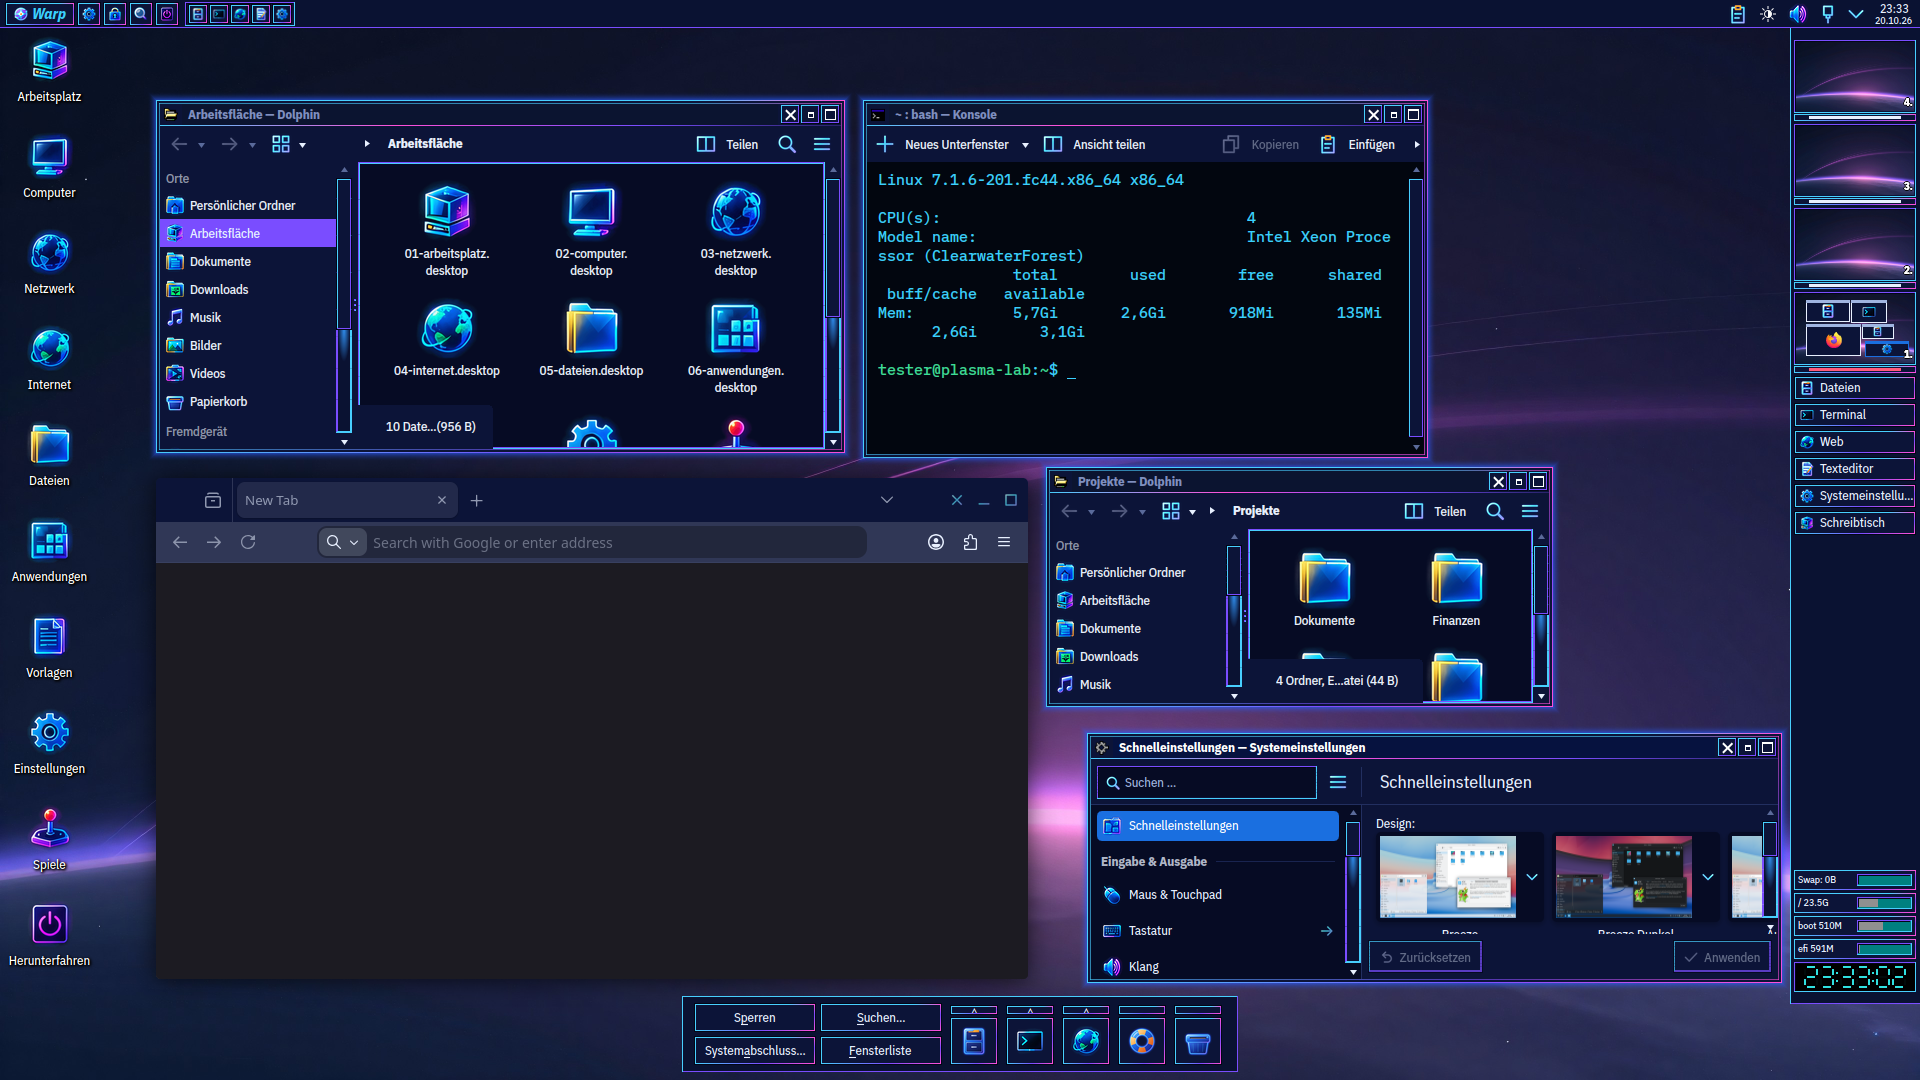
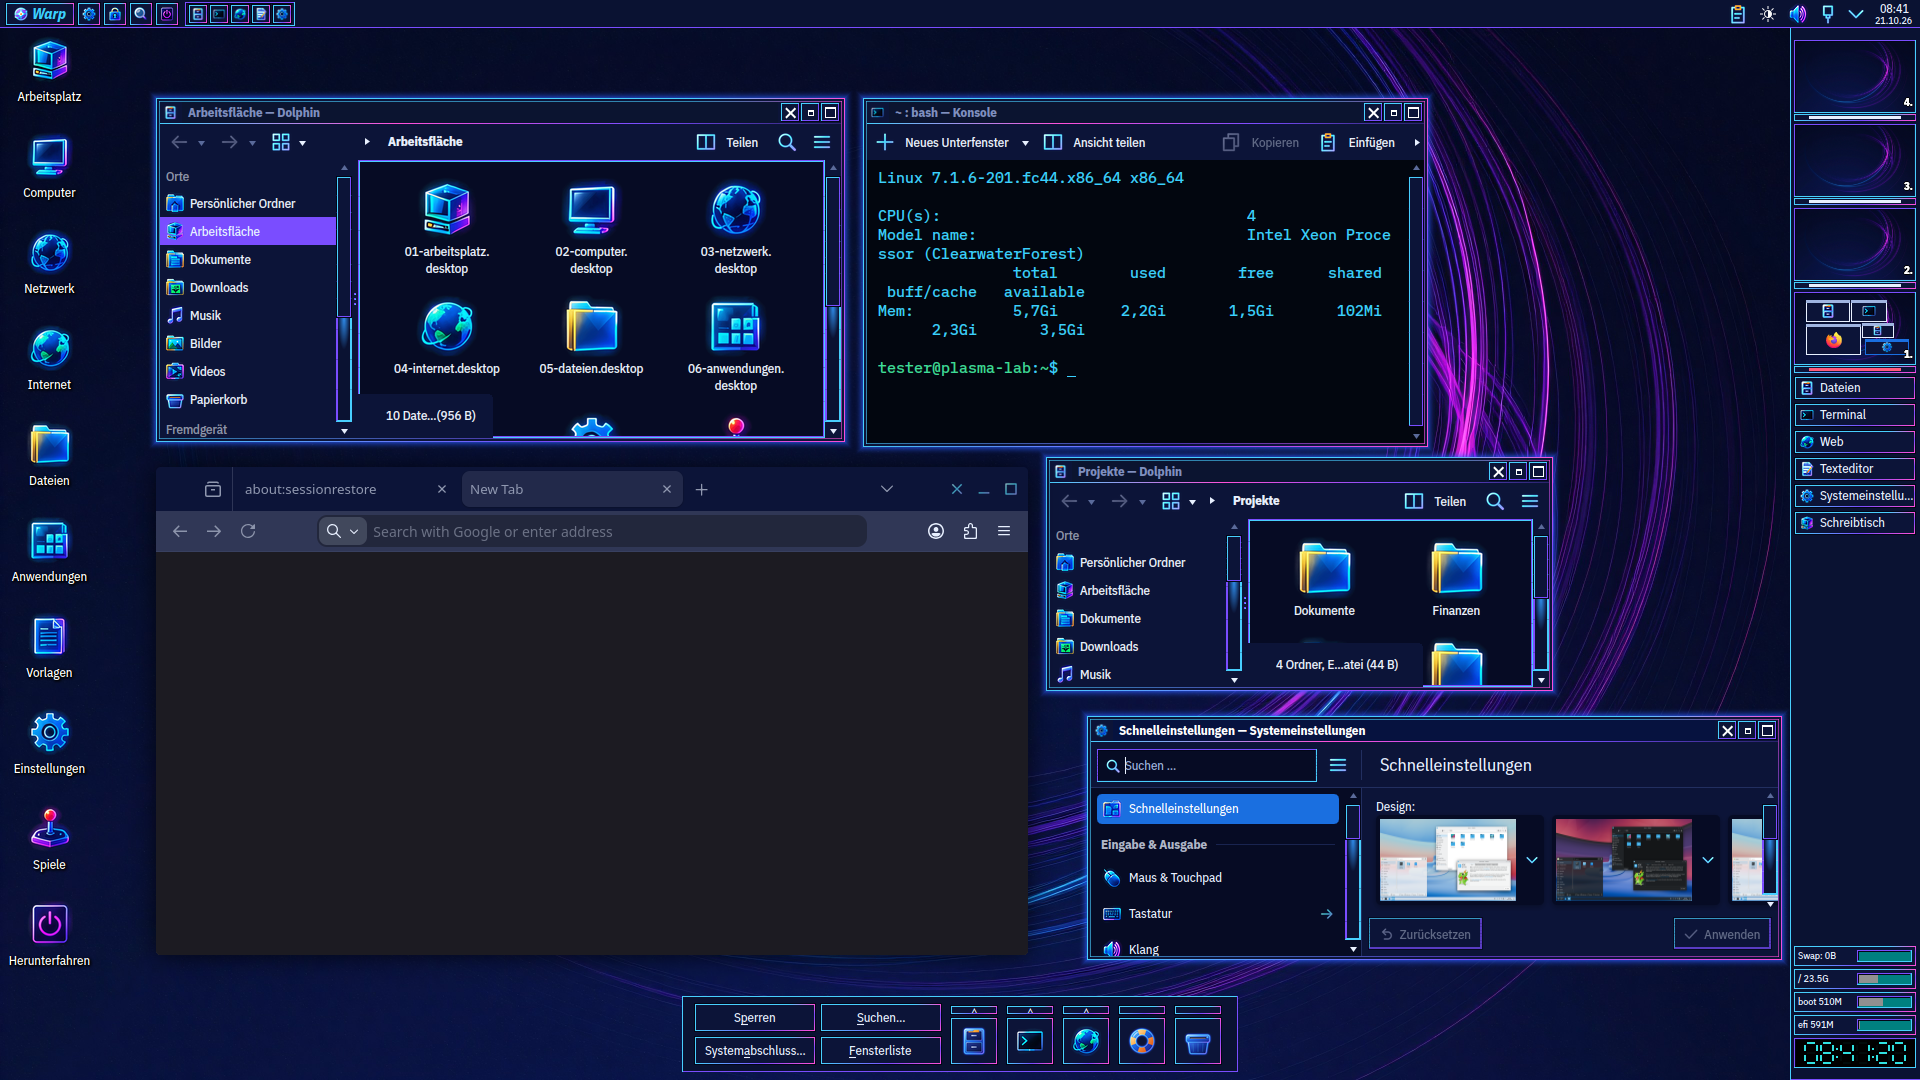
Warp Legacy: Control Strip bis zum Rand, Taskleiste wie im Konzept gefärbt
- LaunchPad und Tab Launcher reservieren keinen Platz mehr (Fenster
  dürfen darunter, wie unter OS/2s schwebendem LaunchPad). Plasma hielt
  für eine Leiste unten die ganze Breite frei, der volle Control Strip
  endete darüber. Die Szene hält selbst Abstand zu ihnen.
- Taskleiste (Neon) nach dem Konzept gemessen: Marineverlauf, Lichtlinie
  an der Oberkante von Violett nach Cyan-Blau mit Schein, Arbeitsflächen
  in einer Rinne, die aktuelle mit Blauverlauf und Glanz.

diff --git a/taskbar/contents/ui/main.qml b/taskbar/contents/ui/main.qml
@@ -59,6 +59,40 @@ PlasmoidItem {
         Layout.minimumWidth: 400
         Layout.fillWidth: true
         Layout.preferredHeight: 44
+        readonly property bool neon: Kirigami.ColorUtils.brightnessForColor(Kirigami.Theme.backgroundColor) === Kirigami.ColorUtils.Dark
+
+        // Neon: the concept's bar (reference/neon-2026.png, bottom edge,
+        // measured): navy, lighter at the top, a line of light along the top
+        // edge that starts violet at the left and turns cyan-blue. Drawn by
+        // the bar itself over the panel's background (CanFillArea: edge to
+        // edge). Classic keeps the Plasma style's grey panel.
+        Rectangle {
+            visible: bar.neon
+            anchors.fill: parent
+            gradient: Gradient {
+                GradientStop { position: 0.0; color: "#0b1d4a" }
+                GradientStop { position: 0.45; color: "#071437" }
+                GradientStop { position: 1.0; color: "#040b26" }
+            }
+            Rectangle {
+                width: parent.width; height: 2
+                gradient: Gradient {
+                    orientation: Gradient.Horizontal
+                    GradientStop { position: 0.0; color: "#b44dff" }
+                    GradientStop { position: 0.12; color: "#5a6dff" }
+                    GradientStop { position: 0.35; color: "#2dbbfb" }
+                    GradientStop { position: 1.0; color: "#1a5ee0" }
+                }
+            }
+            // The glow under the line.
+            Rectangle {
+                y: 2; width: parent.width; height: 6
+                gradient: Gradient {
+                    GradientStop { position: 0.0; color: Qt.rgba(0.18, 0.55, 1, 0.30) }
+                    GradientStop { position: 1.0; color: Qt.rgba(0.18, 0.55, 1, 0.0) }
+                }
+            }
+        }
 
         RowLayout {
             anchors.fill: parent
@@ -83,9 +117,26 @@ PlasmoidItem {
                 }
             }
 
-            // Workspaces 1-4 as the concept's buttons, the current one lit.
-            Row {
+            // Workspaces 1-4 as the concept's buttons, the current one lit,
+            // in Neon set into a darker well with a faint light along its
+            // bottom, as in the concept.
+            Rectangle {
                 visible: Plasmoid.configuration.showWorkspaces
+                Layout.preferredWidth: wsRow.implicitWidth + (bar.neon ? 6 : 0)
+                Layout.preferredHeight: bar.side + (bar.neon ? 6 : 0)
+                color: bar.neon ? "#050c26" : "transparent"
+                border.width: bar.neon ? 1 : 0
+                border.color: Qt.rgba(0.35, 0.5, 1, 0.25)
+                radius: 2
+                Rectangle {
+                    visible: bar.neon
+                    anchors { left: parent.left; right: parent.right; bottom: parent.bottom; margins: 2 }
+                    height: 1
+                    color: Qt.rgba(0.28, 0.75, 1, 0.45)
+                }
+            Row {
+                id: wsRow
+                anchors.centerIn: parent
                 spacing: 1
                 Repeater {
                     model: desktops.desktopIds
@@ -102,6 +153,8 @@ PlasmoidItem {
                         onClicked: root.run(Launch.DBUS + " org.kde.KWin /KWin setCurrentDesktop " + (index + 1))
                     }
                 }
+            }
+
             }
 
             // A button per window.

diff --git a/common/PanelsPage.qml b/common/PanelsPage.qml
@@ -35,7 +35,7 @@ KCM.SimpleKCM {
                + "p.addWidget('org.kde.plasma.systemtray'); p.addWidget('org.kde.plasma.digitalclock');"},
         {plugin: "org.warplegacy.launchpad", name: i18nd("warp-legacy", "LaunchPad"), where: i18nd("warp-legacy", "floating at the bottom centre: lock, find, shut down, launchers with drawers"),
          script: "var p = new Panel; p.location = 'bottom'; p.alignment = 'center'; p.lengthMode = 'fit'; p.height = 76; "
-               + "p.hiding = 'none'; p.floating = true; p.addWidget('org.warplegacy.launchpad');"},
+               + "p.hiding = 'windowsgobelow'; p.floating = true; p.addWidget('org.warplegacy.launchpad');"},
         {plugin: "org.warplegacy.controlstrip", name: i18nd("warp-legacy", "Control Strip"), where: i18nd("warp-legacy", "on the right edge: workspaces, launch list, gauges, clock"),
          script: "var p = new Panel; p.location = 'right'; p.height = 130; p.hiding = 'none'; p.floating = false; "
                + "p.addWidget('org.warplegacy.controlstrip');"},
@@ -44,7 +44,7 @@ KCM.SimpleKCM {
                + "p.addWidget('org.warplegacy.taskbar'); p.addWidget('org.kde.plasma.systemtray'); p.addWidget('org.kde.plasma.digitalclock');"},
         {plugin: "org.warplegacy.tablauncher", name: i18nd("warp-legacy", "Tab Launcher"), where: i18nd("warp-legacy", "at the bottom left: windows, favourites, menu categories on tabs"),
          script: "var p = new Panel; p.location = 'bottom'; p.alignment = 'left'; p.lengthMode = 'fit'; p.height = 112; "
-               + "p.hiding = 'none'; p.floating = true; p.addWidget('org.warplegacy.tablauncher');"}
+               + "p.hiding = 'windowsgobelow'; p.floating = true; p.addWidget('org.warplegacy.tablauncher');"}
     ]
     property var present: []
     property bool known: false

diff --git a/taskbar/contents/ui/TaskTab.qml b/taskbar/contents/ui/TaskTab.qml
@@ -52,11 +52,25 @@ Item {
             anchors.fill: parent
             radius: 2
             gradient: Gradient {
-                GradientStop { position: 0.0; color: tab.filled ? "#3a8cff" : tab.active ? "#12306e" : "#0c1638" }
-                GradientStop { position: 1.0; color: tab.filled ? "#1a52d6" : tab.active ? "#0c1d4a" : "#080f2a" }
+                // The current workspace: the concept's glossy blue, light at
+                // the top running into deep royal blue (measured on its "1").
+                GradientStop { position: 0.0; color: tab.filled ? "#4aa8ff" : tab.active ? "#12306e" : "#0c1a40" }
+                GradientStop { position: 0.45; color: tab.filled ? "#1f78f0" : tab.active ? "#0f2760" : "#0a1636" }
+                GradientStop { position: 1.0; color: tab.filled ? "#0b4cc6" : tab.active ? "#0c1d4a" : "#08112c" }
             }
             border.width: 1
             border.color: tab.active || tab.filled || tab.accent ? "#48cffe" : Qt.rgba(0.45, 0.58, 1, 0.32)
+        }
+        // A sheen over the upper half of the lit workspace button.
+        Rectangle {
+            visible: tab.filled
+            anchors { left: parent.left; right: parent.right; top: parent.top; margins: 1 }
+            height: parent.height * 0.45
+            radius: 2
+            gradient: Gradient {
+                GradientStop { position: 0.0; color: Qt.rgba(1, 1, 1, 0.22) }
+                GradientStop { position: 1.0; color: Qt.rgba(1, 1, 1, 0.0) }
+            }
         }
         // The concept's violet-pink light in the right corners: strong on
         // lit buttons, a hint on the others (lost when the buttons stopped

diff --git a/tools/demo-scene.js b/tools/demo-scene.js
@@ -9,9 +9,18 @@
     // so take the width from the screen, the height from the work area;
     // only a dock that really fills the right edge (the full strip) moves
     // the right end in. The left end stays clear of the desktop objects.
-    var top = work.y, height = work.y + work.height - top;
-    var sy = height / 955;
     var gap = 8;
+    // Docks along the bottom that windows may go below (LaunchPad, Tab
+    // Launcher: no strut): the scene keeps clear of them itself.
+    var bottom = work.y + work.height;
+    var docks = workspace.windowList();
+    for (var k = 0; k < docks.length; k++) {
+        var dg = docks[k].frameGeometry;
+        if (docks[k].dock && dg.y > full.y + full.height / 2 && dg.width < full.width * 0.9 && dg.y - gap < bottom)
+            bottom = dg.y - gap;
+    }
+    var top = work.y, height = bottom - top;
+    var sy = height / 955;
 
     // Docks that do not span the screen (the compact box): keep clear.
     var obstacles = [];

diff --git a/layout.js b/layout.js
@@ -34,7 +34,10 @@ pad.location = 'bottom';
 pad.alignment = 'center';
 pad.lengthMode = 'fit';
 pad.height = 76;
-pad.hiding = 'none';
+// Windows may go below the LaunchPad, as below OS/2's floating LaunchPad
+// window: reserving the bottom edge cut the Control Strip short above it
+// (Plasma reserves the full width for a bottom panel).
+pad.hiding = 'windowsgobelow';
 pad.floating = true;
 pad.addWidget('org.warplegacy.launchpad');
 
